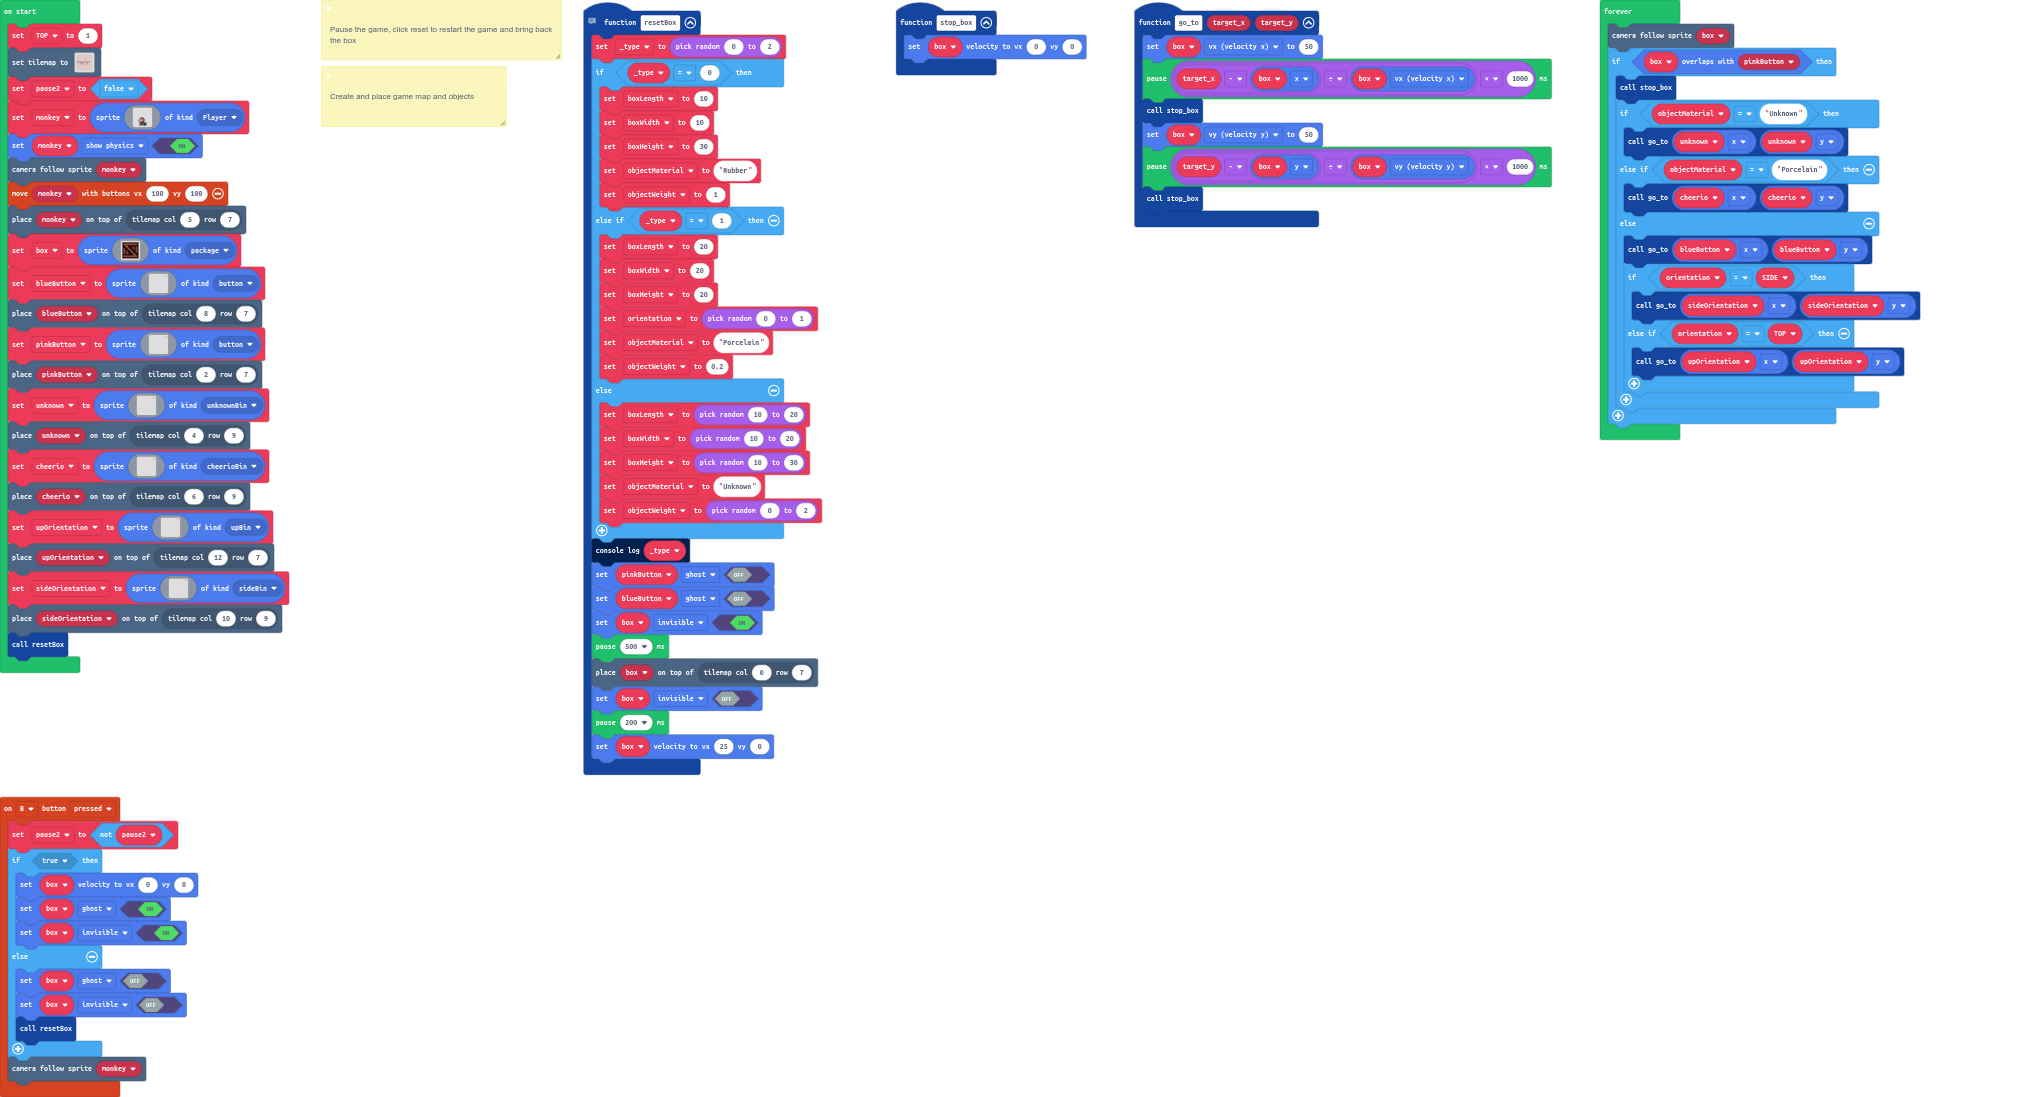
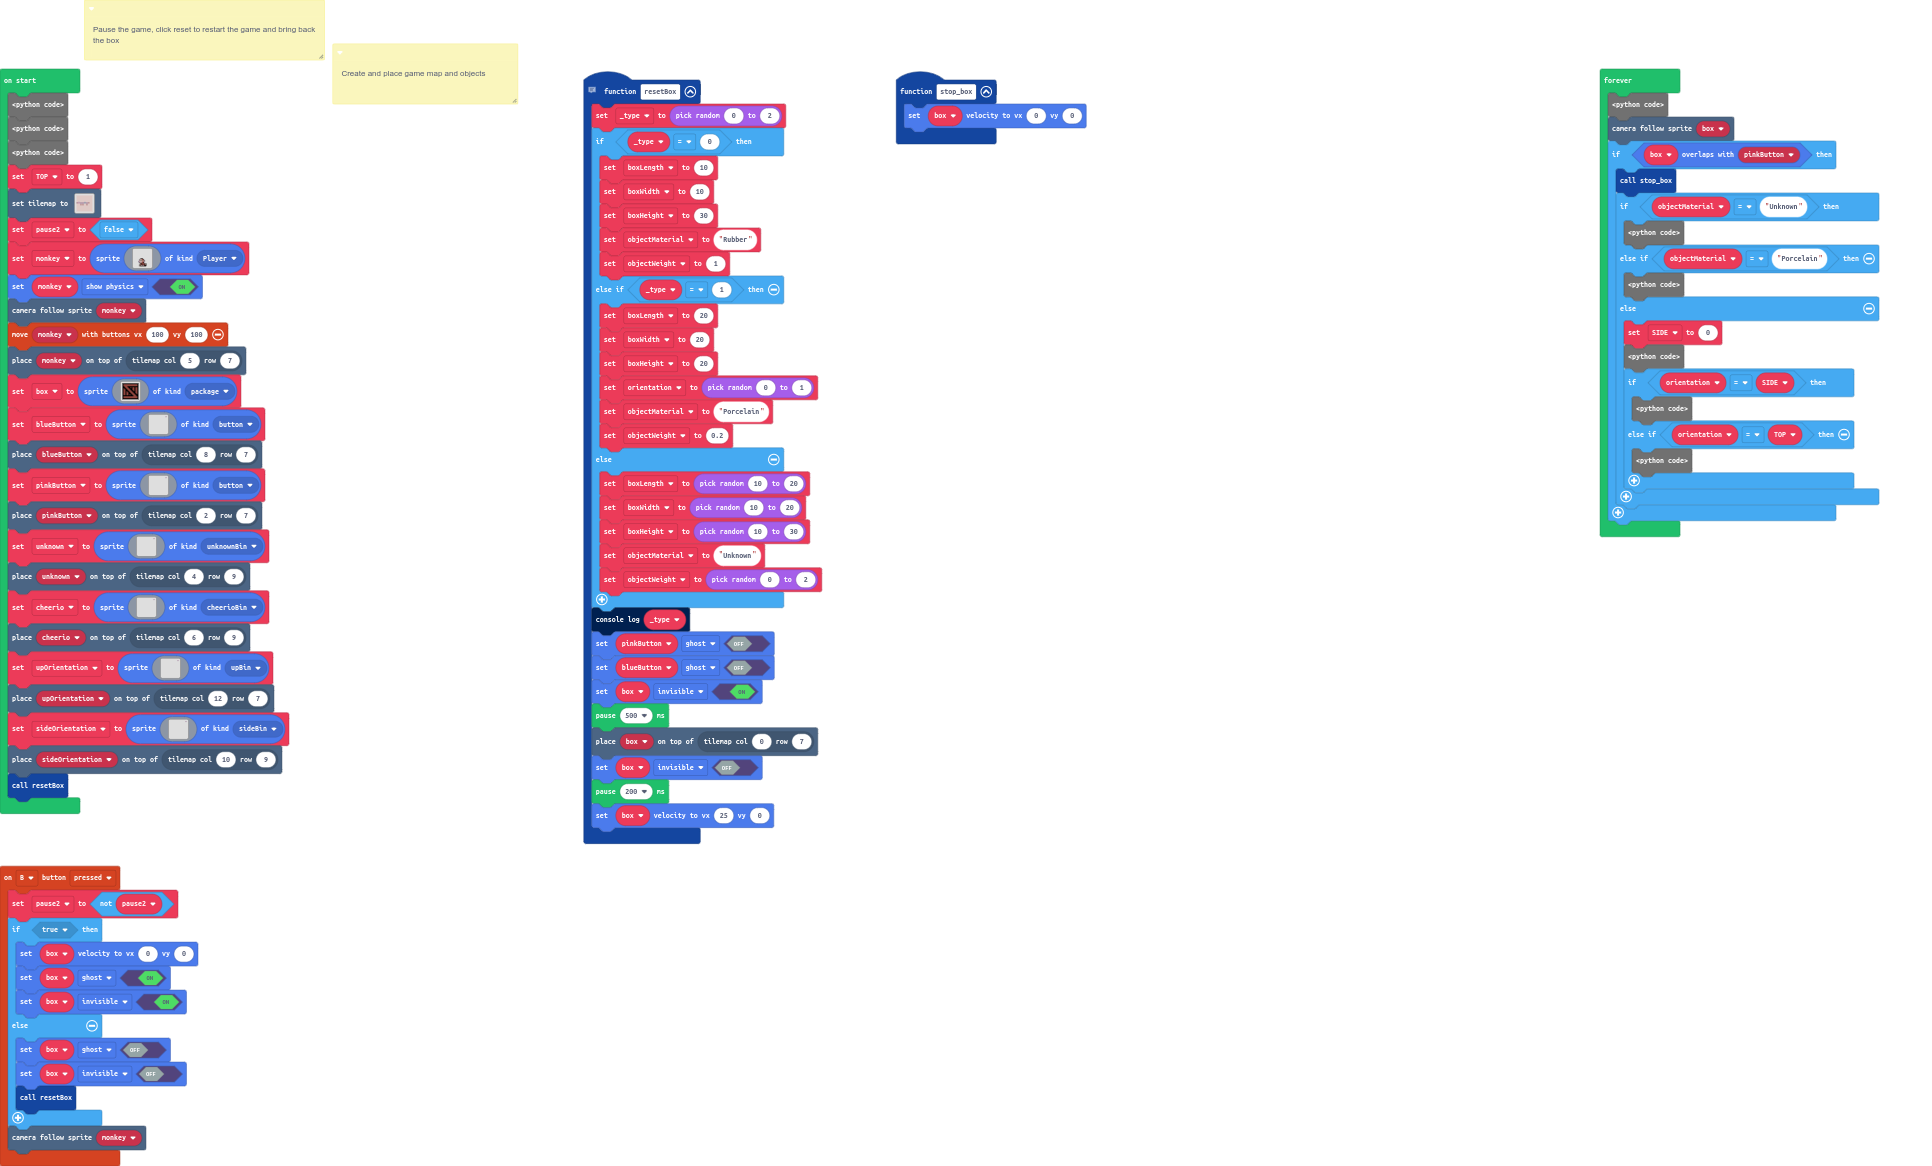
Update pxt.json, main.blocks, main.ts, main.py

Changed region(s): [[0.0, 0.0, 0.4348, 1.0], [0.4348, 0.0, 0.9938, 0.4649]]

diff --git a/main.ts b/main.ts
@@ -9,6 +9,7 @@ namespace SpriteKind {
     export const unknownBin = SpriteKind.create()
 }
 
+/** Create and place game map and objects */
 controller.B.onEvent(ControllerButtonEvent.Pressed, function on_b_pressed() {
     
     pause2 = !pause2
@@ -60,11 +61,15 @@ function resetBox() {
     box.setVelocity(25, 0)
 }
 
+function stop_box() {
+    box.setVelocity(0, 0)
+}
+
 function go_to(target_x: number, target_y: number, final: boolean = false) {
-    box.vx = 50
+    box.vx = 25
     pause((target_x - box.x) / box.vx * 1000)
     stop_box()
-    box.vy = 50
+    box.vy = 25
     pause((target_y - box.y) / box.vy * 1000)
     stop_box()
     if (final) {
@@ -73,12 +78,7 @@ function go_to(target_x: number, target_y: number, final: boolean = false) {
     
 }
 
-function stop_box() {
-    box.setVelocity(0, 0)
-}
-
 /** Pause the game, click reset to restart the game and bring back the box */
-/** Create and place game map and objects */
 let orientation = 0
 let objectWeight = 0
 let objectMaterial = ""
@@ -87,11 +87,12 @@ let boxWidth = 0
 let boxLength = 0
 let _type = 0
 let pinkButton : Sprite = null
-let blueButton : Sprite = null
-let box : Sprite = null
 let monkey : Sprite = null
 let pause2 = false
+let box : Sprite = null
+let blueButton : Sprite = null
 let TOP = 1
+let SIDE = 0
 tiles.setTilemap(tilemap`
     level
 `)
@@ -268,20 +269,28 @@ let sideOrientation = sprites.create(img`
 tiles.placeOnTile(sideOrientation, tiles.getTileLocation(10, 9))
 resetBox()
 forever(function on_forever() {
-    let SIDE: number;
     scene.cameraFollowSprite(box)
     if (box.overlapsWith(pinkButton)) {
         stop_box()
         if (objectMaterial == "Unknown") {
+            box.say("Material: Unknown", 1000)
+            pause(1000)
             go_to(unknown.x, unknown.y, true)
         } else if (objectMaterial == "Porcelain") {
+            box.say("Material: Porcelain", 1000)
+            pause(1000)
             go_to(cheerio.x, cheerio.y, true)
         } else {
-            SIDE = 0
+            box.say("Material: Rubber", 1000)
+            pause(1000)
             go_to(blueButton.x, blueButton.y)
             if (orientation == SIDE) {
+                box.say("Orientation: Side", 1000)
+                pause(1000)
                 go_to(sideOrientation.x, sideOrientation.y, true)
             } else if (orientation == TOP) {
+                box.say("Orientation: Top", 1000)
+                pause(1000)
                 go_to(upOrientation.x, upOrientation.y, true)
             }
             

diff --git a/main.py b/main.py
@@ -8,6 +8,11 @@ class SpriteKind:
     downBin = SpriteKind.create()
     sideBin = SpriteKind.create()
     unknownBin = SpriteKind.create()
+"""
+
+Create and place game map and objects
+
+"""
 
 def on_b_pressed():
     global pause2
@@ -55,26 +60,20 @@ def resetBox():
     box.set_flag(SpriteFlag.INVISIBLE, False)
     pause(200)
     box.set_velocity(25, 0)
-
-def go_to(target_x: number, target_y: number, final=False):
-    box.vx = 50
+def stop_box():
+    box.set_velocity(0, 0)
+def go_to(target_x: number, target_y: number, final: bool = False):
+    box.vx = 25
     pause((target_x - box.x) / box.vx * 1000)
     stop_box()
-    box.vy = 50
+    box.vy = 25
     pause((target_y - box.y) / box.vy * 1000)
     stop_box()
     if final:
         resetBox()
-def stop_box():
-    box.set_velocity(0, 0)
 """
 
 Pause the game, click reset to restart the game and bring back the box
-
-"""
-"""
-
-Create and place game map and objects
 
 """
 orientation = 0
@@ -85,11 +84,12 @@ boxWidth = 0
 boxLength = 0
 _type = 0
 pinkButton: Sprite = None
-blueButton: Sprite = None
-box: Sprite = None
 monkey: Sprite = None
 pause2 = False
+box: Sprite = None
+blueButton: Sprite = None
 TOP = 1
+SIDE = 0
 tiles.set_tilemap(tilemap("""
     level
 """))
@@ -279,15 +279,23 @@ def on_forever():
     if box.overlaps_with(pinkButton):
         stop_box()
         if objectMaterial == "Unknown":
+            box.say("Material: Unknown", 1000)
+            pause(1000)
             go_to(unknown.x, unknown.y, True)
         elif objectMaterial == "Porcelain":
+            box.say("Material: Porcelain", 1000)
+            pause(1000)
             go_to(cheerio.x, cheerio.y, True)
         else:
-            SIDE = 0
+            box.say("Material: Rubber", 1000)
+            pause(1000)
             go_to(blueButton.x, blueButton.y)
             if orientation == SIDE:
+                box.say("Orientation: Side", 1000)
+                pause(1000)
                 go_to(sideOrientation.x, sideOrientation.y, True)
             elif orientation == TOP:
-                go_to(upOrientation.x, upOrientation.y,True)
-                
+                box.say("Orientation: Top", 1000)
+                pause(1000)
+                go_to(upOrientation.x, upOrientation.y, True)
 forever(on_forever)
